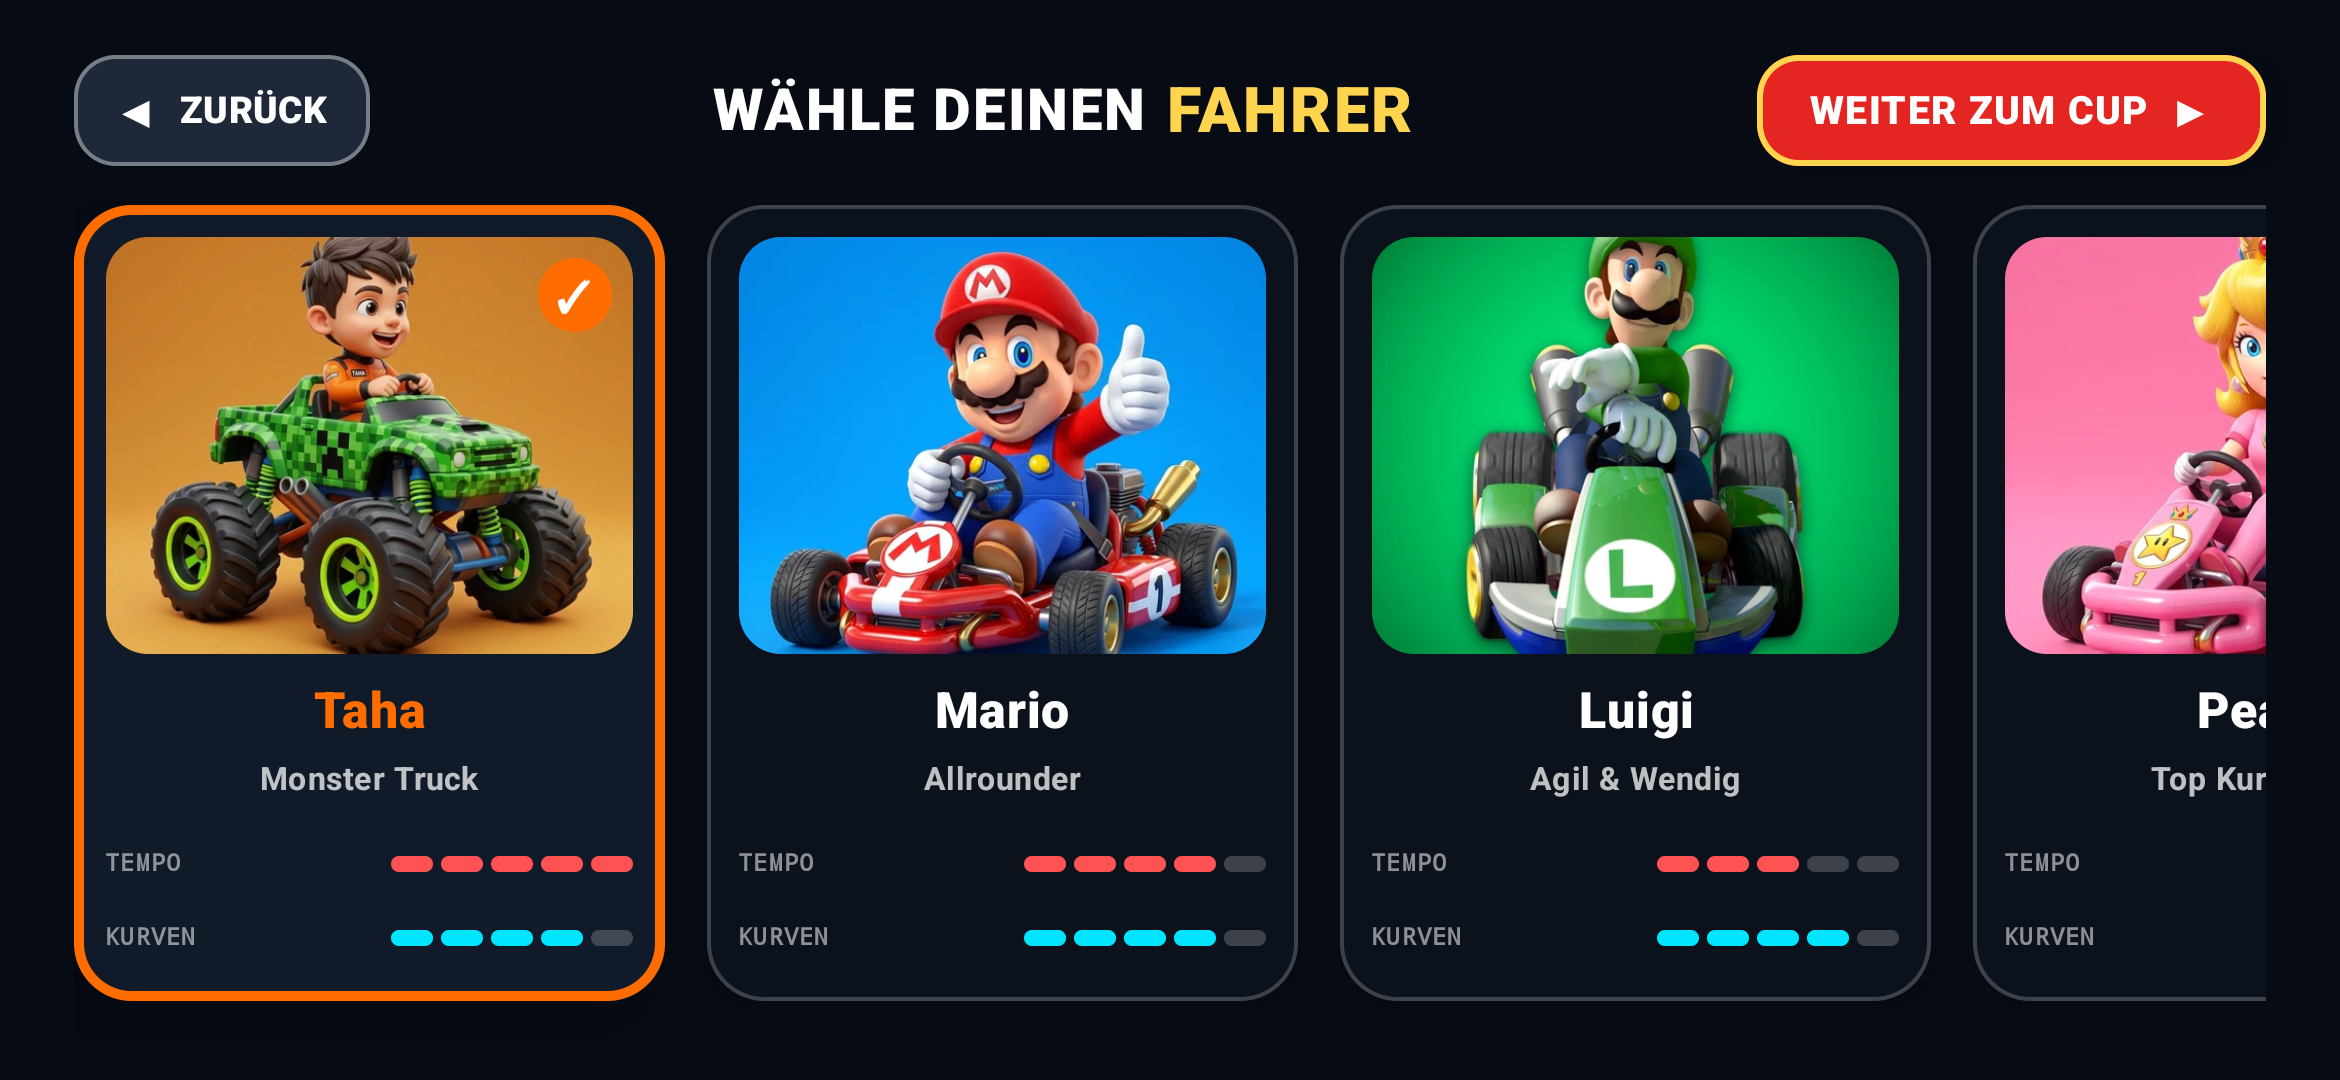
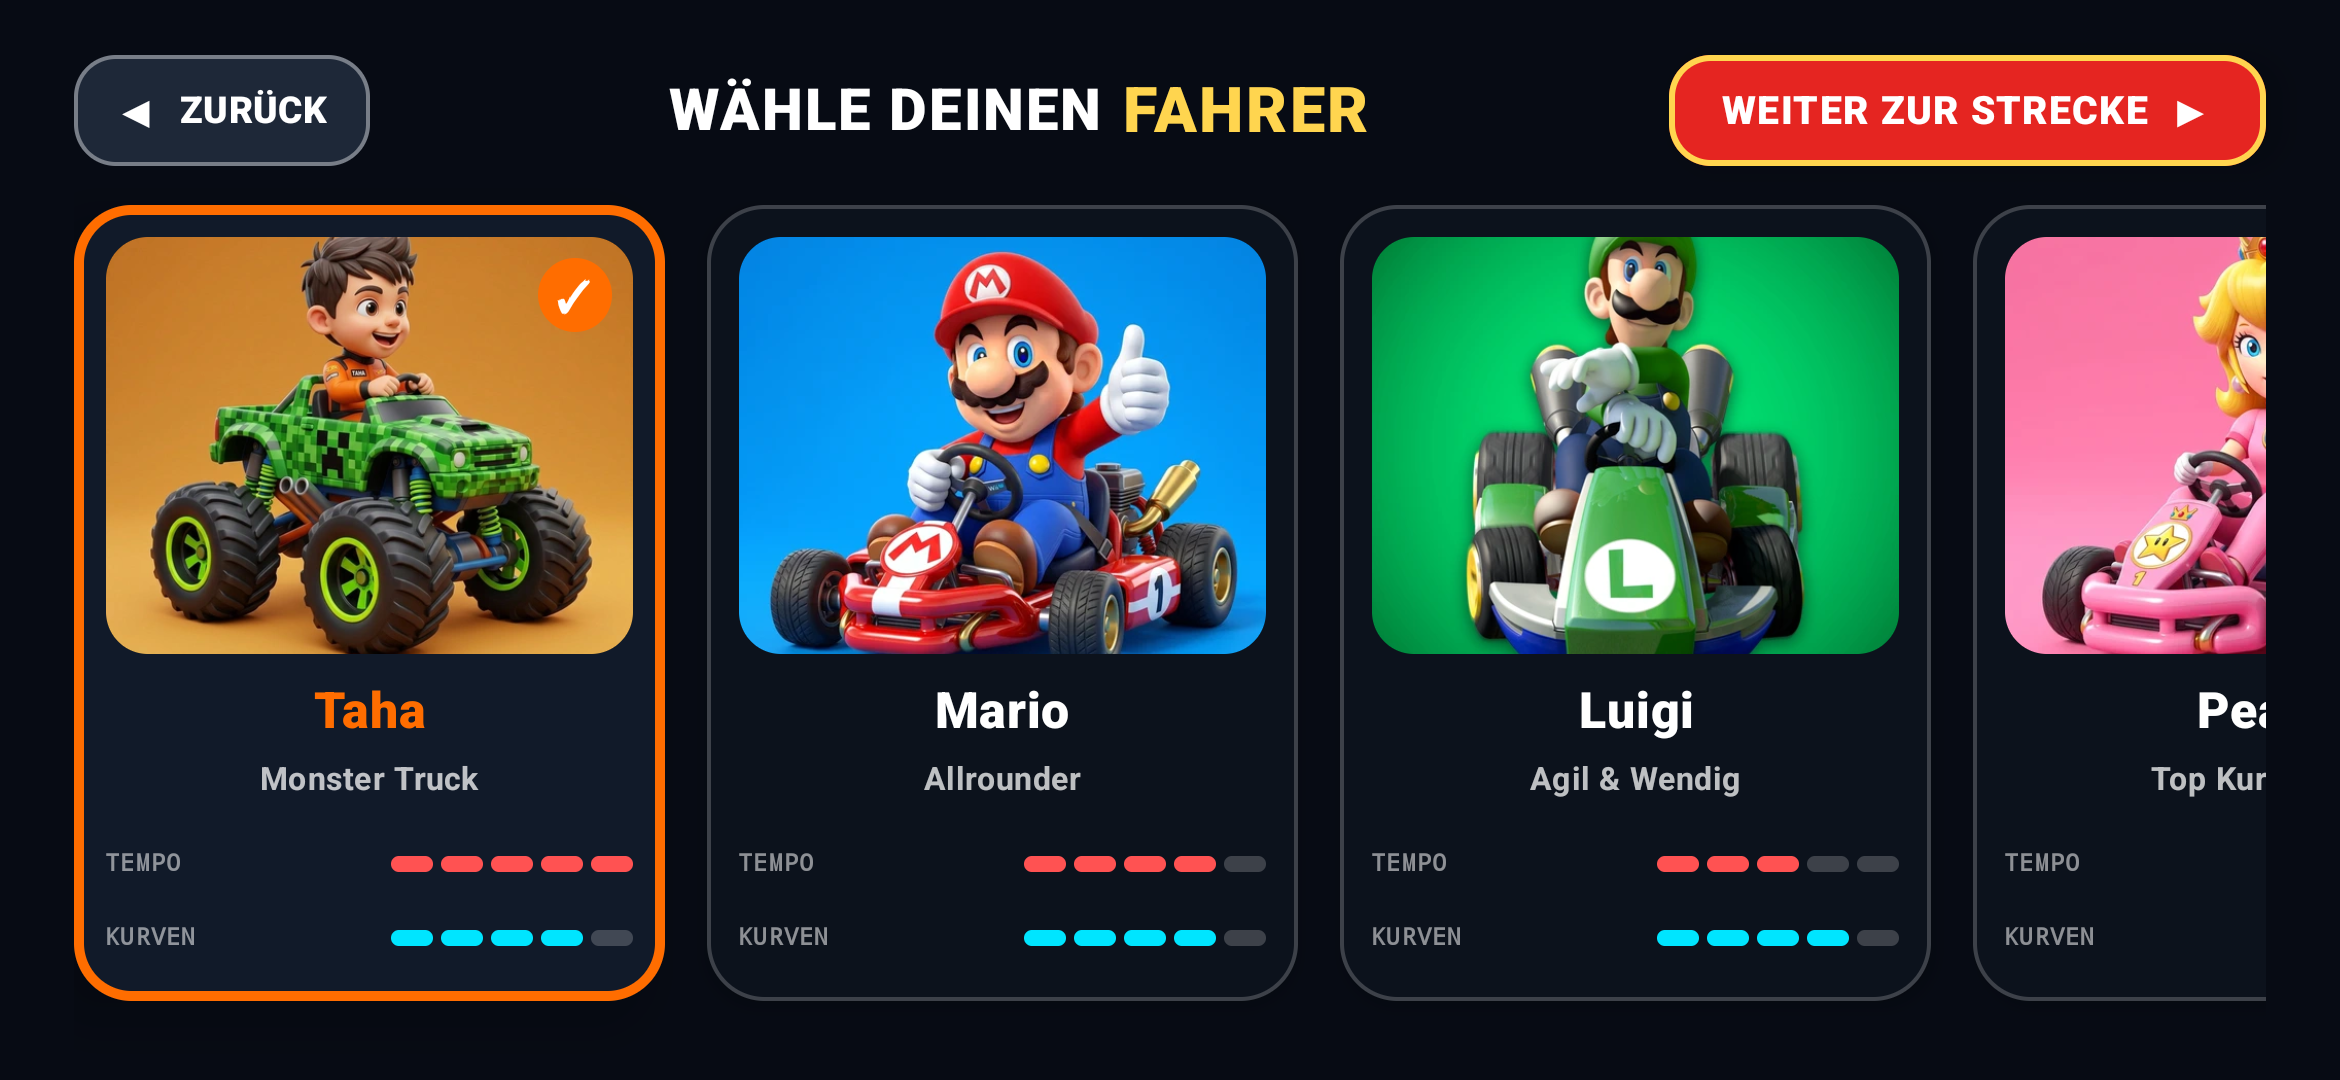
docs: modernize README and screenshots for v2.4.0 AAA Edition (Dynamic Room Arcade & Drive & Paint)

Changed region(s): [[0.2808, 0.0611, 0.6239, 0.1222], [0.6863, 0.0306, 0.9359, 0.1528]]

diff --git a/android/app/src/main/java/com/example/mklive/ui/menu/GarageScreen.kt b/android/app/src/main/java/com/example/mklive/ui/menu/GarageScreen.kt
@@ -96,7 +96,7 @@ fun GarageScreen(viewModel: CockpitViewModel) {
                         modifier = Modifier.padding(horizontal = 20.dp, vertical = 9.dp),
                         verticalAlignment = Alignment.CenterVertically
                     ) {
-                        Text("WEITER ZUM CUP", color = Color.White, fontSize = 15.sp, fontWeight = FontWeight.Black)
+                        Text("WEITER ZUR STRECKE", color = Color.White, fontSize = 15.sp, fontWeight = FontWeight.Black)
                         Spacer(modifier = Modifier.width(8.dp))
                         Text("▶", color = Color.White, fontSize = 16.sp, fontWeight = FontWeight.Black)
                     }

diff --git a/android/app/src/main/java/com/example/mklive/game/TrackManager.kt b/android/app/src/main/java/com/example/mklive/game/TrackManager.kt
@@ -31,9 +31,9 @@ object TrackManager {
             TrackPreset(
                 id = "room_dynamic_arcade",
                 name = "⚡ Dynamic Room Arcade",
-                cup = "🏆 Wohnzimmer Cup",
+                cup = "🏆 Dynamic Arcade",
                 difficulty = "★☆☆",
-                drawableResName = "art_cup_mushroom",
+                drawableResName = "art_mode_grand_prix",
                 elements = listOf(
                     TrackElementData("COIN", 0.0f, 1.0f),
                     TrackElementData("DASH_PAD", 0.0f, 1.8f),

diff --git a/android/app/src/main/java/com/example/mklive/ui/menu/TrackSelectScreen.kt b/android/app/src/main/java/com/example/mklive/ui/menu/TrackSelectScreen.kt
@@ -85,7 +85,7 @@ fun TrackSelectScreen(viewModel: CockpitViewModel) {
                 // Title
                 Row(verticalAlignment = Alignment.CenterVertically) {
                     Text(
-                        text = "CUP",
+                        text = "STRECKE",
                         color = Color.White,
                         fontSize = 24.sp,
                         fontWeight = FontWeight.Black,

diff --git a/README.md b/README.md
@@ -8,22 +8,22 @@ Drive and record **Mario Kart Live: Home Circuit** — now with **Meta Quest 3 V
 
 ---
 
-## 📸 Ingame & UI Showcase (v2.3.2 AAA Edition)
+## 📸 Ingame & UI Showcase (v2.4.0 AAA Edition)
 
 | 🏎 Fahrer-Auswahl (Taha & Mario) | 🦖 Fahrer-Auswahl (Bowser & Yoshi) |
 | :---: | :---: |
 | <img src="docs/screenshots/02_character_selection_taha.png" width="100%"> | <img src="docs/screenshots/03_character_selection_bowser.png" width="100%"> |
 | **Taha (Minecraft Creeper Monster Truck), Mario, Luigi, Peach** | **Bowser (Flame Buggy), Yoshi, Cyber Kart** |
 
-| 🏆 Spielmodi & Grand Prix | 🍄 Cup & Strecken-Auswahl |
+| 🏆 Spielmodi & Grand Prix | ⚡ Strecken-Auswahl (Dynamic & Custom) |
 | :---: | :---: |
-| <img src="docs/screenshots/04_game_modes.png" width="100%"> | <img src="docs/screenshots/05_cup_selection.png" width="100%"> |
+| <img src="docs/screenshots/04_game_modes.png" width="100%"> | <img src="docs/screenshots/05_track_selection.png" width="100%"> |
 | **Grand Prix, Ballon-Schlacht, Zeitfahren, Streckeneditor** | **⚡ Dynamic Room Arcade & Drive & Paint Circuit** |
 
 | 🚀 3D Raketen-Kampf & Partikel | 🕹 GameSir Controller Priorität |
 | :---: | :---: |
 | <img src="docs/screenshots/07_rocket_combat.png" width="100%"> | <img src="docs/screenshots/08_settings_gamepad.png" width="100%"> |
-| **Red Shell Rakete mit Rauch/Feuer-Schweif & Ampelstart** | **Freie Kamerasicht (Touch-Controls optional)** |
+| **Red Shell Rakete mit Rauch/Feuer-Schweif & Ampelstart** | **Freie Kamerasicht (Touch-Controls optional deaktivierbar)** |
 
 <p align="center">
   <img src="docs/screenshots/06_cockpit_ar_hud.png" alt="Cockpit AR HUD" width="100%">
@@ -34,33 +34,39 @@ Drive and record **Mario Kart Live: Home Circuit** — now with **Meta Quest 3 V
 ### 📄 Druckbare DIN-A4 Smart-Marker (`docs/markers/`)
 Bereit zum Ausdrucken für deine Wohnung:
 * 🖨 **[HTML Druckvorlage öffnen (`docs/markers/print_markers.html`)](docs/markers/print_markers.html)**: Mit `Strg + P` direkt im Browser auf DIN-A4 ausdrucken!
-* **Tor 1 bis 4 (Checkpoints & Start/Ziel)**: Drift-freies Tracking beim Vorbeifahren.
-* **No-Go Zonen / Virtuelle Wände**: Warnbarrieren vor Möbeln und Wänden.
+* **Tor 1 bis 4 (Checkpoints & Start/Ziel)**: Drift-freies optisches Tracking beim Vorbeifahren.
+* **No-Go Zonen / Virtuelle Wände**: Warnbarrieren und Sperrzonen vor Möbeln und Wänden.
 
 ---
 
-## 🌟 Highlights & Key Features
+## 🌟 Highlights & Key Features (v2.4.0 AAA Edition)
 
-* **🏎💨 AR Combat Edition & Virtual Circuit Engine (New in v2.0.0!):**
-  * **3D Floor Homography & Ground Projection:** Real-world camera geometry coupled with real-time IMU gyroscopic pitch and roll telemetry.
-  * **Interactive Gold Coins:** Rotating 3D gold coins floating on the floor. Driving over them rewards the iconic chime, glitter starbursts, coin counter increments, and a +1.5% speed buff per coin (up to +15% top speed).
-  * **Holographic ?-Item Boxes:** Pulsating 3D question-mark cubes that shatter into 16 crystalline shards and trigger the Item Roulette.
-  * **Turbo Boost Dash Pads:** Flowing neon chevron arrows on the carpet delivering an instant 100% Nitro Boost with camera speed blur lines.
-  * **Virtual Track Gates & Lap Timing:** Interactive checkpoint archways (`🚩 GATE 1..4` & `🏁 FINISH / LAP`) placeable on the floor via D-Pad UP or HUD button. Real-time lap timer, lap counting, and personal best records.
-  * **⚔ Full Combat Arsenal:**
-    * **[L1 / LB] (Hold):** Minigun rapid fire (18 Hz) with bumper muzzle flashes, tracer bullets, screen shake, and rumble.
-    * **[X]:** Missile Launcher with Lock-On HUD reticle, target tracking, comic explosions, and haptics.
-    * **[Y]:** Bob-Omb EMP shockwave detonator.
-    * **[B]:** Banana Peels dropped behind the kart (causes 360° spin-out and power cut).
-    * **[A]:** Mushroom Boost & Active Item trigger.
-    * **[R1 / RB]:** Weapon Select / Horn.
-* **🔊 Low-Latency SoundPool SFX & Dynamic Engine RPM Synthesizer:**
-  * Procedurally synthesized 16-bit PCM 44.1 kHz arcade audio engine (zero external dependencies).
-  * Pitch-modulated kart engine sound scaling in real time with live throttle telemetry.
-* **🥽 Meta Quest 3 & VR Headset Stereoscopic 3D AR:**
-  * Dual-viewport Side-by-Side (SBS) rendering with inter-pupillary distance (IPD) parallax: AR coins, gates, and boxes appear with tangible 3D depth directly in your room.
-* **🛠 Video Recorder Color Channel Inversion Bugfix:**
-  * Hardware-accelerated Skia `ColorMatrix` RGB/BGR channel swapper fixing the inverted red/blue colors (cyan Mario hat) on Google Tensor (Pixel 7 Pro) and Mali/Exynos GPUs, with AR overlay burn-in.
+* **⚡ Dynamic Room Arcade (0% Wandkollisionen & Möbel-Clipping):**
+  * **Intelligenter Fahrkorridor:** Anstelle starrer, fest platzierter Strecken, die in Sofas oder Wänden enden, projiziert die Dynamic Room Engine Tore, Münzen und Turbo-Pads fortlaufend direkt vor das Kart in Fahrtrichtung (bei 2.5m, 5.0m und 7.5m).
+  * **Flüssiger Spielfluss:** Jedes durchfahrene Tor triggert sofort einen Sound- und Partikeleffekt, zählt die Rundenzeit und spannt nahtlos den nächsten Streckenabschnitt auf.
+* **🛠 "Drive & Paint" Streckeneditor & Custom Circuits:**
+  * **Wohnungs-Rundkurs abfahren:** Fahre mit dem echten Kart deine Wunschstrecke in der Wohnung ab. Start/Ziel, Checkpoints 1 bis 4, Münzenfelder und Dash-Pads werden genau an deiner realen Fahrspur platziert.
+  * **Persistente Speicherung:** Eigene Strecken werden lokal gespeichert und stehen im Streckenmenü sofort zur Auswahl.
+* **🎮 GameSir / Bluetooth Gamepad Fokus & Clean FPV Cockpit:**
+  * **Hardware-Controller First:** Optimiert für GameSir G8 Galileo, G8+, X2s sowie Xbox Wireless, PlayStation DualSense und Switch Pro Controller.
+  * **Optionale Touch-Buttons:** Auf Smartphone und Tablet lassen sich On-Screen Touch-Buttons in den Einstellungen (`Optionen -> Touch-Steuerung einblenden`) komplett ausblenden – für eine freie, ungestörte FPV-Kamerasicht wie im echten Rennkart!
+  * **60 Hz Hardware V-Sync Input Loop:** Sub-Millisekunden-Reaktionszeit zwischen Stick-Eingabe und Kart-Lenkmotor.
+* **🚀 3D Waffen-Arsenal & Visuelle Partikeleffekte:**
+  * **3D Red Shell Rakete:** Plastisch gerendertes 3D-Geschoss mit feurigem Flammen-Schweif, animiertem Rauch und parabolischer Flugbahn.
+  * **18 Hz Minigun:** Zwillingsrohr-Mündungsfeuer mit dynamischer Lichtreflektion auf dem Boden, Leuchtspurmunition und Kameraschütteln.
+  * **Bob-Omb EMP:** 3D-Bombe mit brennender Lunte und expandierender Schockwellen-Druckwelle.
+  * **Bananenschalen:** Physikalisch auf dem Boden abgelegte Hindernisse mit 360°-Dreher bei Berührung.
+* **🪙 Interaktive 3D Goldmünzen & Item-Boxen:**
+  * Rotierende 3D-Goldmünzen mit Stern-Prägung (+1.5% Speed-Buff pro Münze bis zu +15% Maximalgeschwindigkeit).
+  * Holographische Fragezeichen-Würfel mit pulsierendem Glow und Item-Roulette.
+  * Turbo Boost Dash-Pads mit fließenden Neon-Chevrons und High-Speed-Warp-Streifen.
+* **🔊 Low-Latency SoundPool SFX & Dynamischer Motorensound:**
+  * Prozedural synthetisierter 16-Bit PCM 44.1 kHz Arcade-Audio-Synthesizer.
+  * Stufenlose Tonhöhen-Modulation des Kart-Motors synchron zu Gashebel und Telemetrie.
+* **🥽 Meta Quest 3 Stereoskopisches 3D-AR:**
+  * Side-by-Side (SBS) Dual-Viewport Rendering mit einstellbarem Augenabstand (IPD).
+* **🛠 Skia ColorMatrix Farbraum-Korrektur:**
+  * Hardwarebeschleunigter RGB/BGR Channel-Swapper zur Behebung vertauschter Rot-/Blaukanäle auf Google Tensor (Pixel 7 Pro) und Mali-GPUs.
 
 ---
 
@@ -122,7 +128,7 @@ Bereit zum Ausdrucken für deine Wohnung:
 1. **OpenKart SDK:** Runs an 802.11 access point tailored to Nintendo's LP2P protocol and handles the initial pairing handshake and encrypted communication.
 2. **Video Worker (`video_worker.py`):** Reassembles UDP RTP H.264 packets into a clean stream for both native decoders and MJPEG fallback on port `9001`.
 3. **Drive Server (`drive_web.py`):** Translates WebSocket control inputs into Nintendo control packets and streams IMU telemetry on port `9000`.
-4. **Android & Quest App:** Connects to the base station via WebSocket and HTTP, receives video and telemetry, handles input at 30 Hz, and renders both 2D HUD and immersive 3D VR stereoscopic views.
+4. **Android & Quest App:** Connects to the base station via WebSocket and HTTP, receives video and telemetry, handles input at 60 Hz hardware V-Sync, and renders both 2D HUD and immersive 3D VR stereoscopic views.
 
 ---
 
@@ -160,7 +166,7 @@ systemctl --user status mk-live-openkart mk-live-video mk-live-web
    *(Or double-click `Install_Quest3.desktop` on Linux)*
 4. Alternatively, sideload using SideQuest or standard ADB:
    ```bash
-   adb install -r -g MK-Live-Cockpit-v1.1.0-Quest3.apk
+   adb install -r -g app-quest-release.apk
    ```
 5. Inside the Quest 3 headset, open **App Library** -> filter by **Unknown Sources** -> launch **MK Live** (look for the Mario icon wearing the VR headset!).
 6. Configure the Base Station IP in **Settings**, grab your Touch Controllers, and press **[Y]** to drive in full VR!
@@ -169,10 +175,10 @@ systemctl --user status mk-live-openkart mk-live-video mk-live-web
 
 ### 3. Android Smartphone Installation
 
-1. Download `MK-Live-Cockpit-v1.1.0-Phone.apk` from the [Releases](https://github.com/olus85/mk-live/releases) page.
+1. Download `app-phone-release.apk` from the [Releases](https://github.com/olus85/mk-live/releases) page.
 2. Install via ADB or file manager:
    ```bash
-   adb install -r MK-Live-Cockpit-v1.1.0-Phone.apk
+   adb install -r app-phone-release.apk
    ```
 3. Open the **MK Live** app on your phone.
 4. Tap **⚙ Settings** and enter the IP address of your Base Station PC (e.g. `192.168.0.105`).
